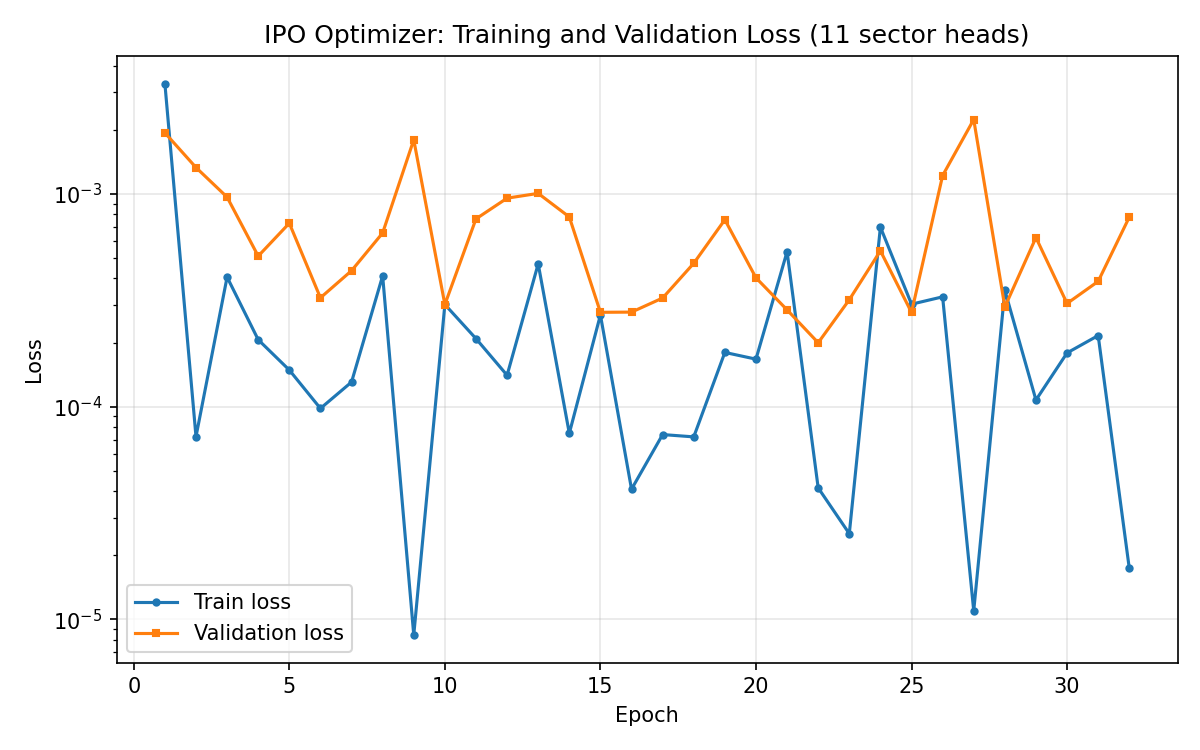
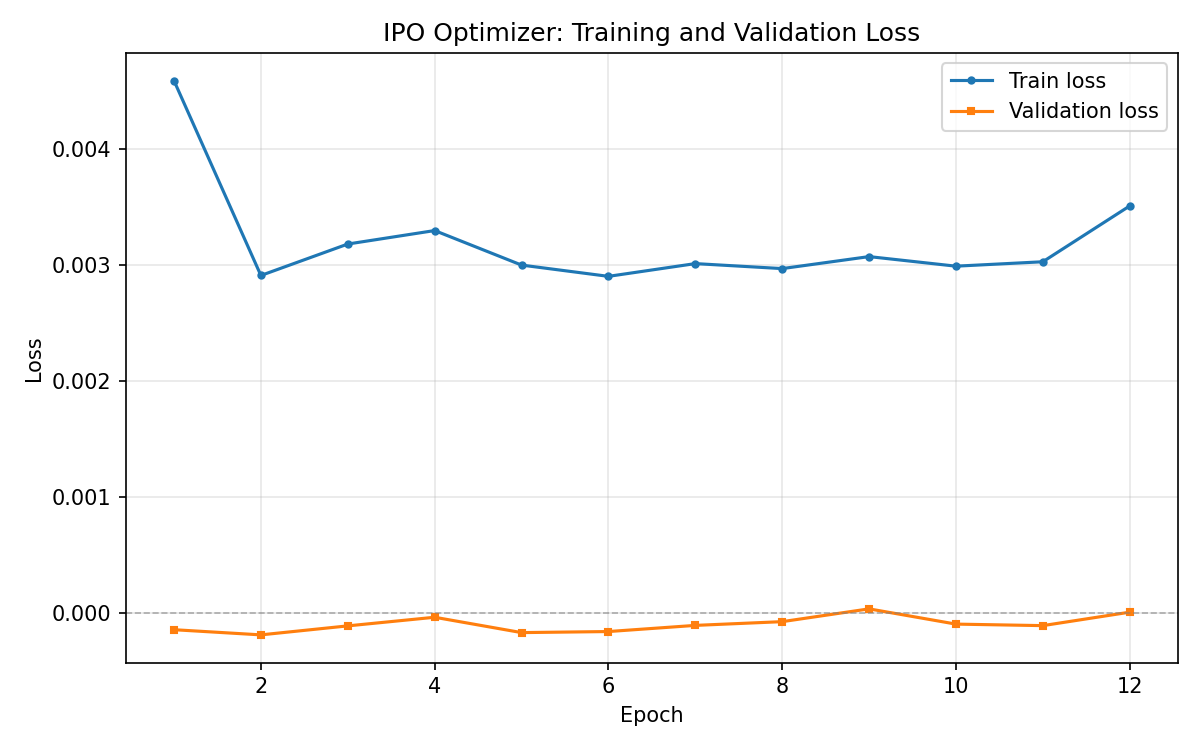
Chronological training batches and update loss figure
Made-with: Cursor

diff --git a/src/train.py b/src/train.py
@@ -6,7 +6,6 @@ Forward → portfolio returns → L → backward; validate; save best checkpoint
 from __future__ import annotations
 
 import torch
-import numpy as np
 from pathlib import Path
 from typing import Optional
 
@@ -32,17 +31,17 @@ def train_epoch(
 ) -> tuple[float, dict]:
     model.train()
     n = X.shape[0]
-    perm = np.random.permutation(n)
     total_loss = 0.0
     n_batches = 0
     acc_components = {}
     weights_prev = None
+    # Batches in chronological order (rolling windows by prediction date).
     for start in range(0, n, batch_size):
-        idx = perm[start : start + batch_size]
-        if len(idx) < 2:
+        end = min(start + batch_size, n)
+        if end - start < 2:
             continue
-        x = torch.as_tensor(X[idx], device=device, dtype=torch.float32)
-        r = torch.as_tensor(R[idx], device=device, dtype=torch.float32)
+        x = torch.as_tensor(X[start:end], device=device, dtype=torch.float32)
+        r = torch.as_tensor(R[start:end], device=device, dtype=torch.float32)
         w = model(x)
         prev = weights_prev if (weights_prev is not None and weights_prev.shape[0] == w.shape[0]) else None
         loss, components = combined_loss(
@@ -140,7 +139,6 @@ def train_epoch_sector_heads(
     """R: (N, G, 2); model(x) -> (B, G, 2)."""
     model.train()
     n = X.shape[0]
-    perm = np.random.permutation(n)
     total_loss = 0.0
     n_batches = 0
     acc_components = {}
@@ -156,11 +154,11 @@ def train_epoch_sector_heads(
         target_vol_annual=target_vol_annual,
     )
     for start in range(0, n, batch_size):
-        idx = perm[start : start + batch_size]
-        if len(idx) < 2:
+        end = min(start + batch_size, n)
+        if end - start < 2:
             continue
-        x = torch.as_tensor(X[idx], device=device, dtype=torch.float32)
-        r = torch.as_tensor(R[idx], device=device, dtype=torch.float32)
+        x = torch.as_tensor(X[start:end], device=device, dtype=torch.float32)
+        r = torch.as_tensor(R[start:end], device=device, dtype=torch.float32)
         w = model(x)
         prev = weights_prev if (weights_prev is not None and weights_prev.shape[0] == w.shape[0]) else None
         loss, components = combined_loss_sector_heads(w, r, weights_prev=prev, **loss_kw)
@@ -250,7 +248,7 @@ def run_training_sector_heads(
     log_every: int = 1,
 ) -> tuple[torch.nn.Module, list[dict]]:
     """
-    Train ``SectorMultiHeadAllocator``. Expects ``data`` with
+    Train sector multi-head model (GRU/LSTM or Transformer). Expects ``data`` with
     ``X_train, R_train, X_val, R_val`` and ``R_*`` shape (N, G, 2).
     """
     if device is None:
